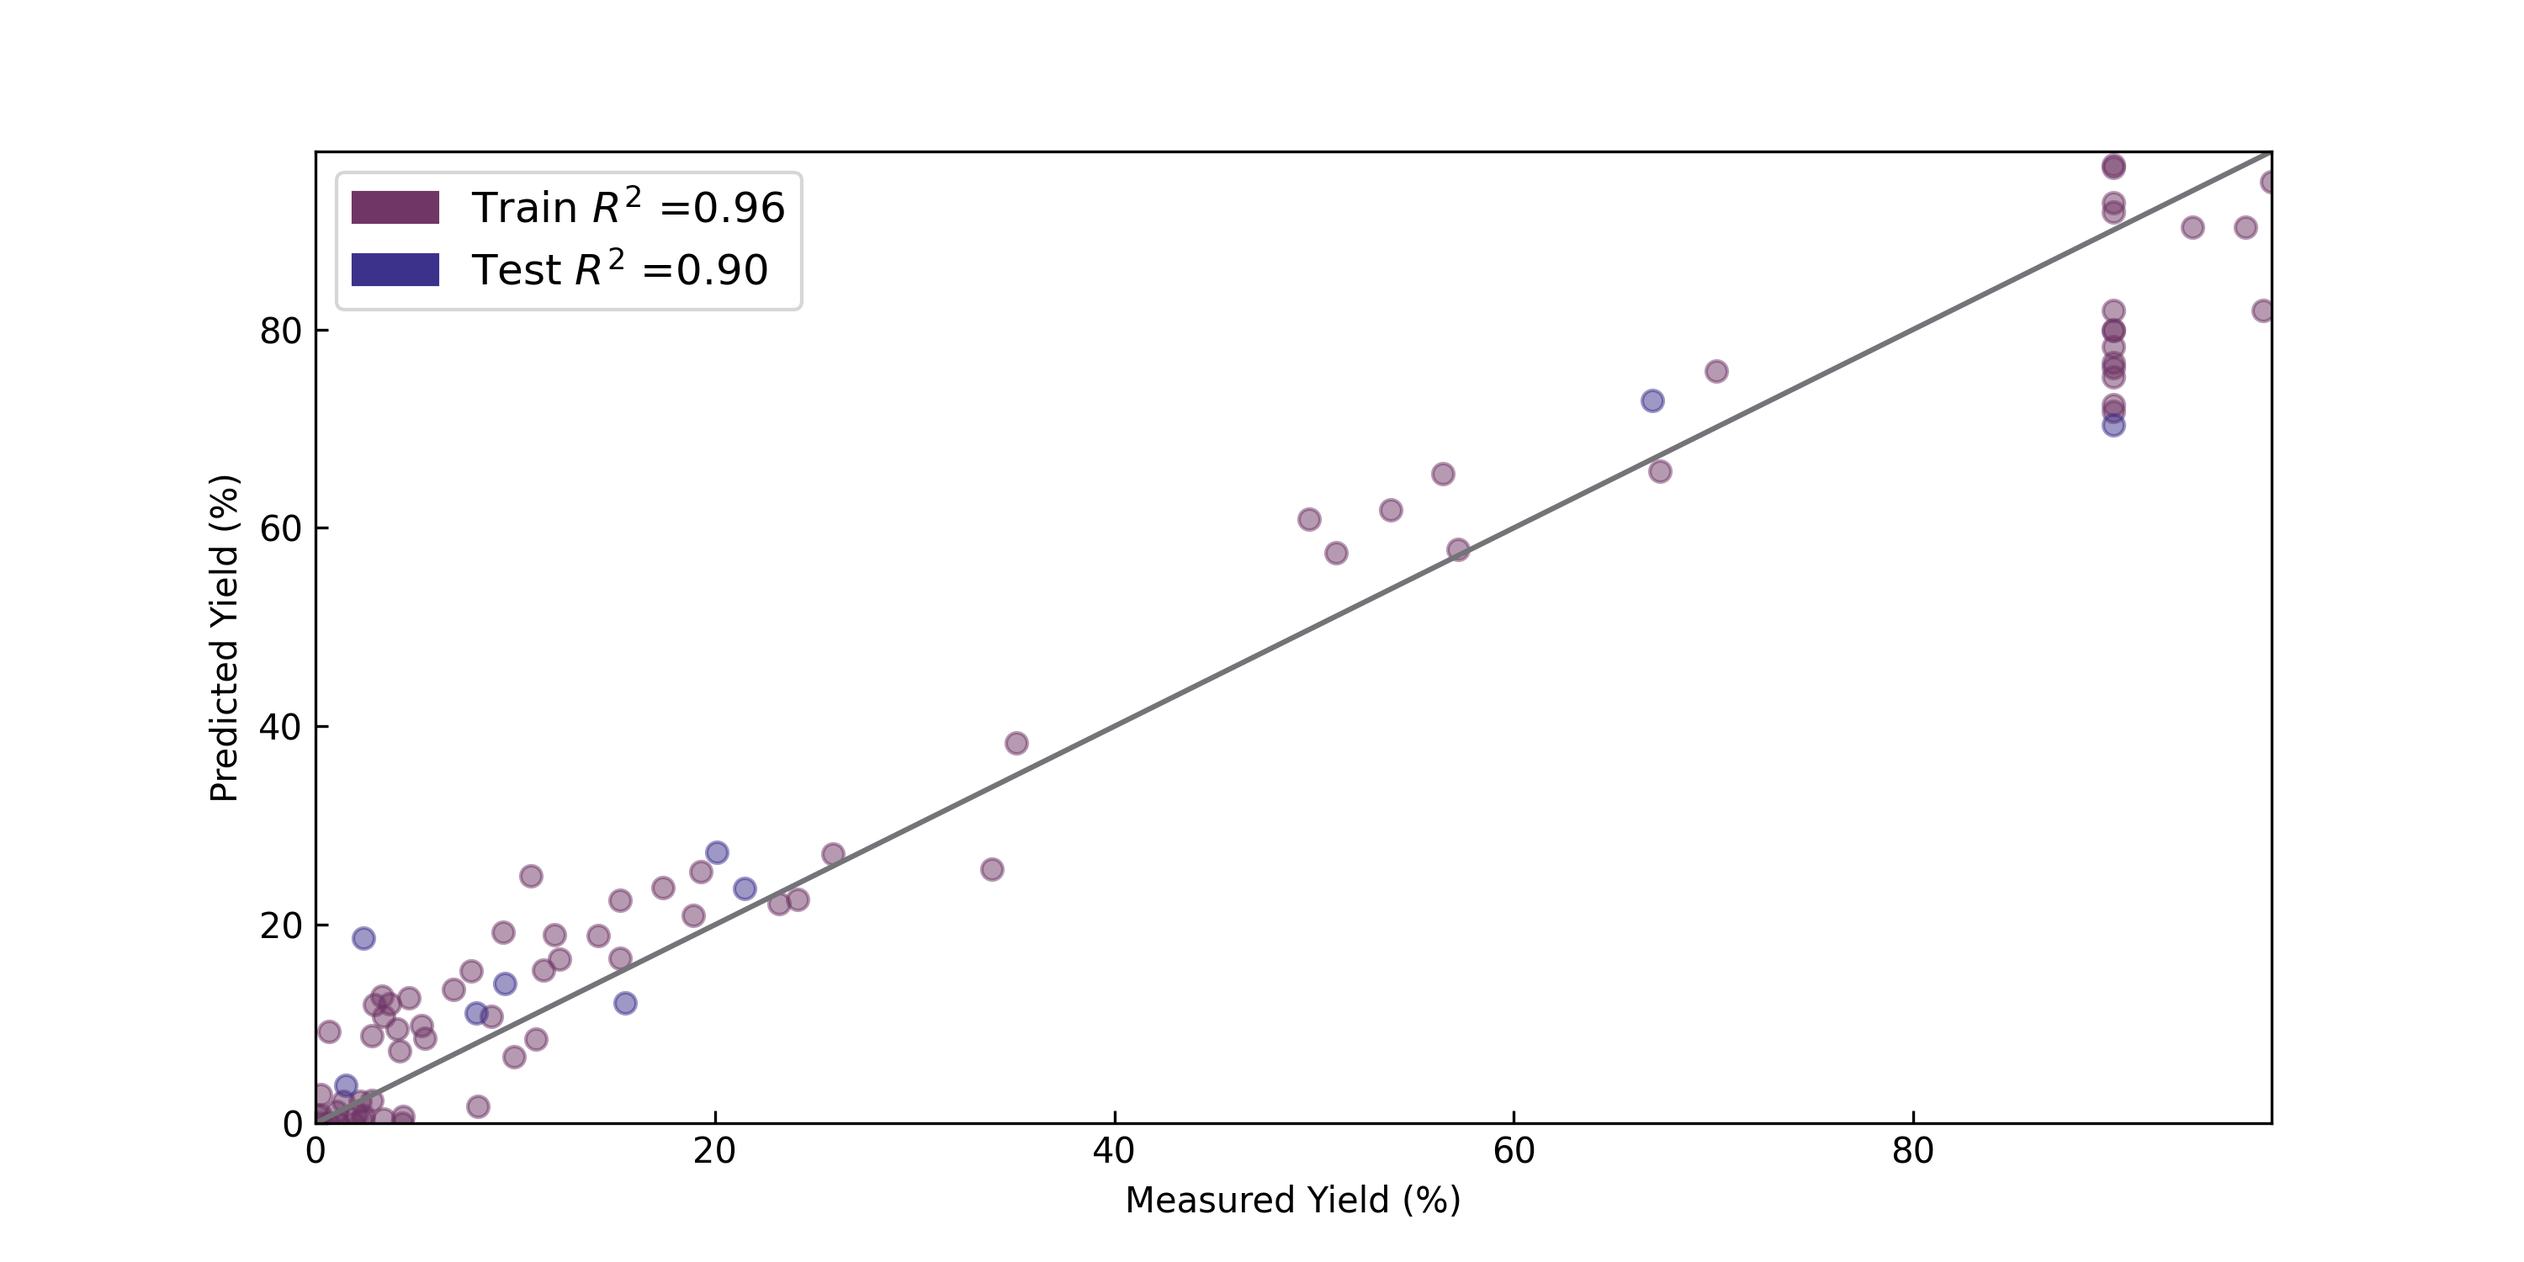
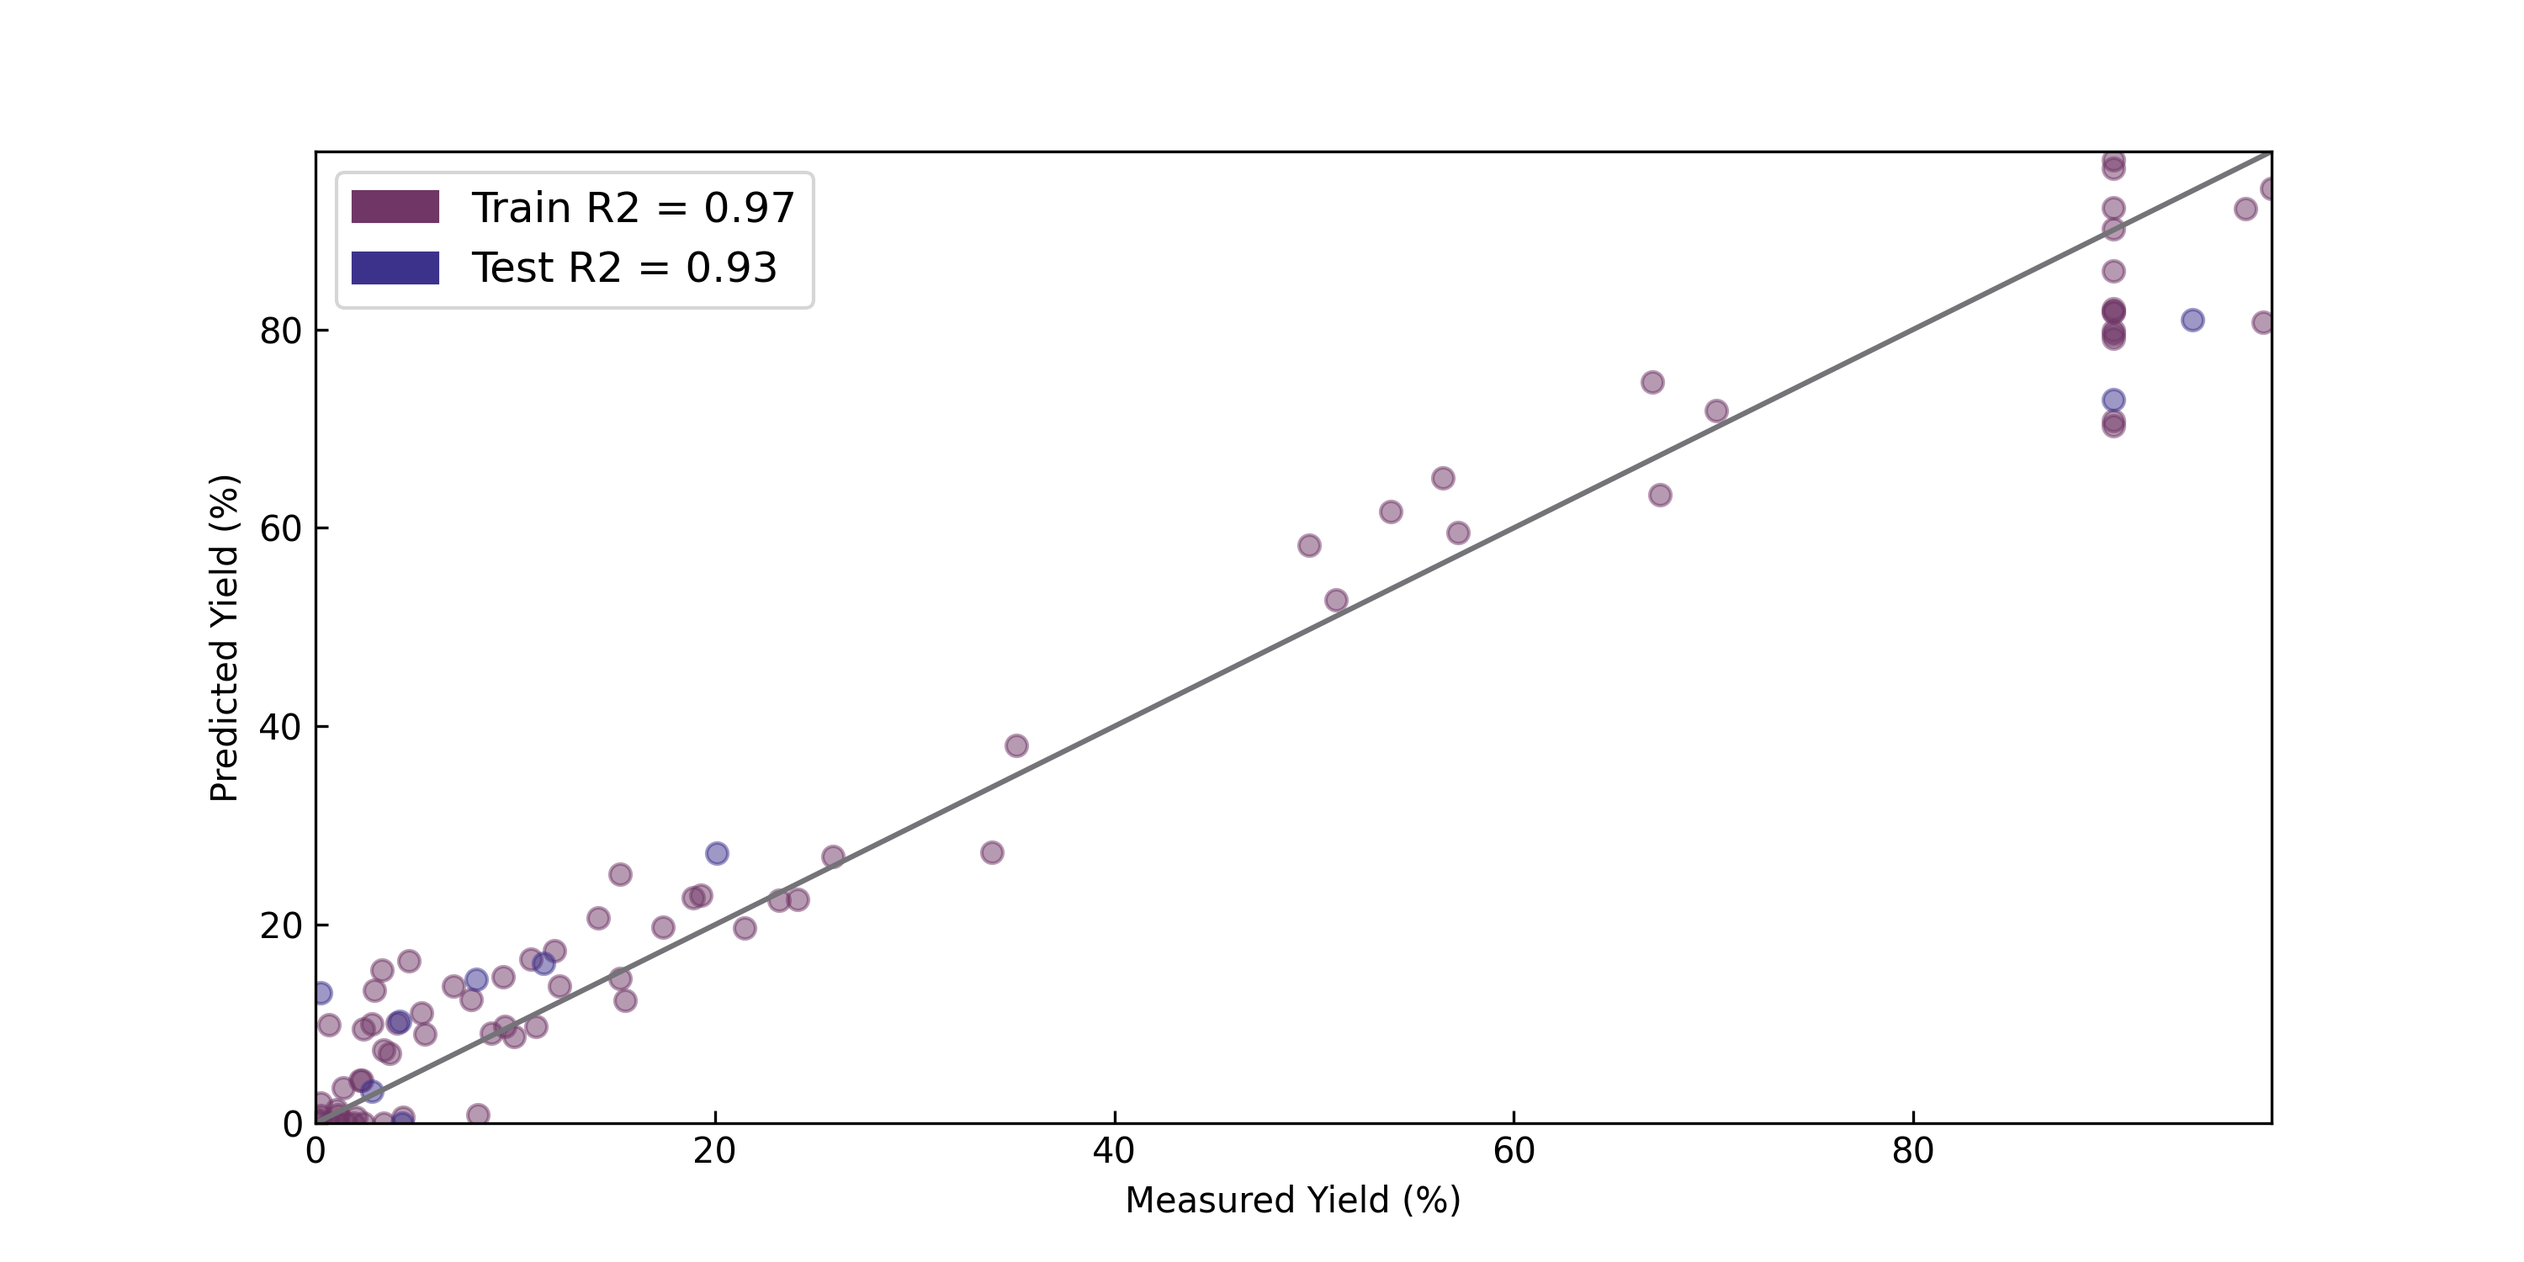
Remove task covar prior

diff --git a/lightning_study.py b/lightning_study.py
@@ -1,7 +1,5 @@
 import subprocess
-import time
 from typing import Dict, List, Optional
-import wandb
 from multitask.benchmarks.suzuki_benchmark_training import (
     train_benchmark as train_suzuki_benchmark,
 )
@@ -42,7 +40,7 @@ class BenchmarkWork(L.LightningWork):
         **kwargs,
     ):
         super().__init__(parallel=parallel, **kwargs)
-        self.benchmark_type = benchmark_type
+        self.benchmark_type = benchmark_type.value
         self.wandb_dataset_artifact_name = wandb_dataset_artifact_name
         self.dataset_name = dataset_name
         self.save_path = save_path
@@ -55,10 +53,16 @@ class BenchmarkWork(L.LightningWork):
         self.finished = False
 
     def run(self, **kwargs):
+        if self.benchmark_type == BenchmarkType.cn.value:
+            subcmd = "train-cn"
+        elif self.benchmark_type == BenchmarkType.suzuki.value:
+            subcmd = "train-suzuki"
+        else:
+            raise ValueError(f"Invalid benchmark type: {self.benchmark_type}")
         cmd = [
             "multitask",
             "benchmarks",
-            "train-cn" if self.benchmark_type == BenchmarkType.cn else "train-suzuki",
+            subcmd,
             self.dataset_name,
             self.save_path,
             self.figure_path,
@@ -177,6 +181,8 @@ class MultitaskBenchmarkStudy(L.LightningFlow):
         run_benchmark_training: bool,
         run_single_task: bool,
         run_multi_task: bool,
+        run_suzuki: bool = True,
+        run_cn: bool = True,
         compute_type: str = "cpu-medium",
         parallel: bool = True,
         max_workers: int = 10,
@@ -191,6 +197,8 @@ class MultitaskBenchmarkStudy(L.LightningFlow):
         self.run_benchmark_training = run_benchmark_training
         self.run_single_task = run_single_task
         self.run_multi_task = run_multi_task
+        self.run_suzuki = run_suzuki
+        self.run_cn = run_cn
         self.compute_type = compute_type
         self.parallel = parallel
         self.wandb_entity = wandb_entity
@@ -206,83 +214,87 @@ class MultitaskBenchmarkStudy(L.LightningFlow):
 
     def run(self):
         # Benchmark training
-        if self.run_benchmark_training and self.all_initialized:
+        if self.run_benchmark_training and not self.all_initialized:
             # Train Baumgartner CN benchmark
-            baumgartner_cn_runs = [
-                BenchmarkWork(
-                    benchmark_type="cn",
-                    dataset_name=f"baumgartner_cn_case_{case}",
-                    wandb_dataset_artifact_name="baumgartner_cn:latest",
-                    save_path=f"data/baumgartner_cn/emulator_case_{case}/",
-                    figure_path="figures/",
-                    parallel=self.parallel,
-                    cloud_compute=L.CloudCompute(name=self.compute_type),
-                    wandb_entity=self.wandb_entity,
-                    wandb_project=self.wandb_project,
-                )
-                for case in range(1, 5)
-            ]
-            for r in baumgartner_cn_runs:
-                r.run(
-                    max_epochs=1000,
-                    cv_folds=5,
-                    verbose=1,
-                )
+            if self.run_cn:
+                baumgartner_cn_runs = [
+                    BenchmarkWork(
+                        benchmark_type=BenchmarkType.cn,
+                        dataset_name=f"baumgartner_cn_case_{case}",
+                        wandb_dataset_artifact_name="baumgartner_cn:latest",
+                        save_path=f"data/baumgartner_cn/emulator_case_{case}/",
+                        figure_path="figures/",
+                        parallel=self.parallel,
+                        cloud_compute=L.CloudCompute(name=self.compute_type),
+                        wandb_entity=self.wandb_entity,
+                        wandb_project=self.wandb_project,
+                    )
+                    for case in range(1, 5)
+                ]
+                for r in baumgartner_cn_runs:
+                    r.run(
+                        max_epochs=1000,
+                        cv_folds=5,
+                        verbose=1,
+                    )
 
-            # Train Baumgartner Suzuki benchmark
-            baumgartner_suzuki_runs = [
-                BenchmarkWork(
-                    benchmark_type="suzuki",
-                    dataset_name=f"baumgartner_suzuki",
-                    wandb_dataset_artifact_name="baumgartner_suzuki:latest",
-                    save_path="data/baumgartner_suzuki/emulator",
-                    figure_path="figures/",
-                    parallel=self.parallel,
-                    cloud_compute=L.CloudCompute(self.compute_type),
-                    wandb_entity=self.wandb_entity,
-                    wandb_project=self.wandb_project,
-                )
-            ]
+            if self.run_suzuki:
+                # Train Baumgartner Suzuki benchmark
+                baumgartner_suzuki_runs = [
+                    BenchmarkWork(
+                        benchmark_type=BenchmarkType.suzuki,
+                        dataset_name=f"baumgartner_suzuki",
+                        wandb_dataset_artifact_name="baumgartner_suzuki:latest",
+                        save_path="data/baumgartner_suzuki/emulator",
+                        figure_path="figures/",
+                        parallel=self.parallel,
+                        cloud_compute=L.CloudCompute(self.compute_type),
+                        wandb_entity=self.wandb_entity,
+                        wandb_project=self.wandb_project,
+                    )
+                ]
 
-            # Train Reizman Suzuki benchmarks
-            reizman_suzuki_runs = [
-                BenchmarkWork(
-                    benchmark_type="suzuki",
-                    dataset_name=f"reizman_suzuki_case_{case}",
-                    wandb_dataset_artifact_name="reizman_suzuki:latest",
-                    save_path=f"data/reizman_suzuki/emulator_case_{case}/",
-                    figure_path="figures/",
-                    parallel=self.parallel,
-                    cloud_compute=L.CloudCompute(name=self.compute_type),
-                    wandb_entity=self.wandb_entity,
-                    wandb_project=self.wandb_project,
-                )
-                for case in range(1, 5)
-            ]
-            for r in reizman_suzuki_runs + baumgartner_suzuki_runs:
-                r.run(
-                    split_catalyst=False,
-                    max_epochs=1000,
-                    cv_folds=5,
-                    verbose=1,
-                    print_warnings=False,
-                )
+                # Train Reizman Suzuki benchmarks
+                reizman_suzuki_runs = [
+                    BenchmarkWork(
+                        benchmark_type=BenchmarkType.suzuki,
+                        dataset_name=f"reizman_suzuki_case_{case}",
+                        wandb_dataset_artifact_name="reizman_suzuki:latest",
+                        save_path=f"data/reizman_suzuki/emulator_case_{case}/",
+                        figure_path="figures/",
+                        parallel=self.parallel,
+                        cloud_compute=L.CloudCompute(name=self.compute_type),
+                        wandb_entity=self.wandb_entity,
+                        wandb_project=self.wandb_project,
+                    )
+                    for case in range(1, 5)
+                ]
+                for r in reizman_suzuki_runs + baumgartner_suzuki_runs:
+                    r.run(
+                        split_catalyst=False,
+                        max_epochs=1000,
+                        cv_folds=5,
+                        verbose=1,
+                        print_warnings=False,
+                    )
 
         # Multi task benchmarking
         if self.run_multi_task and not self.all_initialized:
             configs = []
-            # configs += self.generate_suzuki_configs_multitask(
-            #     max_experiments=self.max_experiments,
-            #     batch_size=self.batch_size,
-            #     repeats=self.repeats,
-            #     parallel=self.parallel,
-            # )
-            configs += self.generate_cn_configs_multitask(
-                max_experiments=self.max_experiments,
-                batch_size=self.batch_size,
-                repeats=self.repeats,
-                parallel=self.parallel,
-            )
+            if self.run_suzuki:
+                configs += self.generate_suzuki_configs_multitask(
+                    max_experiments=self.max_experiments,
+                    batch_size=self.batch_size,
+                    repeats=self.repeats,
+                    parallel=self.parallel,
+                )
+            if self.run_cn:
+                configs += self.generate_cn_configs_multitask(
+                    max_experiments=self.max_experiments,
+                    batch_size=self.batch_size,
+                    repeats=self.repeats,
+                    parallel=self.parallel,
+                )
             for i, config in enumerate(configs):
                 self.workers[str(self.total_jobs + i)] = OptimizationWork(
                     **config,
@@ -295,18 +307,20 @@ class MultitaskBenchmarkStudy(L.LightningFlow):
         # Single task benchmarking
         if self.run_single_task and not self.all_initialized:
             configs = []
-            # configs += self.generate_suzuki_configs_single_task(
-            #     max_experiments=self.max_experiments,
-            #     batch_size=self.batch_size,
-            #     repeats=self.repeats,
-            #     parallel=self.parallel,
-            # )
-            configs += self.generate_cn_configs_single_task(
-                max_experiments=self.max_experiments,
-                batch_size=self.batch_size,
-                repeats=self.repeats,
-                parallel=self.parallel,
-            )
+            if self.run_suzuki:
+                configs += self.generate_suzuki_configs_single_task(
+                    max_experiments=self.max_experiments,
+                    batch_size=self.batch_size,
+                    repeats=self.repeats,
+                    parallel=self.parallel,
+                )
+            if self.run_cn:
+                configs += self.generate_cn_configs_single_task(
+                    max_experiments=self.max_experiments,
+                    batch_size=self.batch_size,
+                    repeats=self.repeats,
+                    parallel=self.parallel,
+                )
             for i, config in enumerate(configs):
                 self.workers[str(self.total_jobs + i)] = OptimizationWork(
                     **config,
@@ -500,12 +514,14 @@ class MultitaskBenchmarkStudy(L.LightningFlow):
 if __name__ == "__main__":
     app = L.LightningApp(
         MultitaskBenchmarkStudy(
-            run_benchmark_training=False,
-            run_single_task=True,
+            run_benchmark_training=True,
+            run_single_task=False,
             run_multi_task=False,
+            run_suzuki=False,
+            run_cn=True,
             compute_type="cpu-medium",
             parallel=True,
-            max_workers=20,
+            max_workers=1,
             wandb_entity="ceb-sre",
         )
     )

diff --git a/multitask/benchmarks/cn_benchmark_training.py b/multitask/benchmarks/cn_benchmark_training.py
@@ -2,7 +2,7 @@ from multitask.utils import *
 from multitask.etl.cn_data_utils import get_cn_dataset
 from summit import *
 from pathlib import Path
-from typing import Tuple, Optional
+from typing import List, Tuple, Optional
 import logging
 import wandb
 from skorch.callbacks import WandbLogger
@@ -53,6 +53,7 @@ def train_benchmark(
     logger.info(f"Dataset size: {ds.shape[0]}")
     if use_wandb:
         wandb.config.update({"dataset_size": ds.shape[0]})
+        wandb.config.update({"domain": domain.to_dict()})
 
     # Create emulator benchmark
     emulator = ExperimentalEmulator(dataset_name, domain, dataset=ds)
@@ -89,7 +90,7 @@ def train_benchmark(
     return emulator
 
 
-def create_cn_domain() -> Domain:
+def create_cn_domain(base_equiv_bounds: List[float]) -> Domain:
     """Create the domain for the optimization"""
     domain = Domain()
 
@@ -126,7 +127,7 @@ def create_cn_domain() -> Domain:
     domain += ContinuousVariable(
         name="base_equiv",
         description=des_3,
-        bounds=[1.0, 2.8],
+        bounds=base_equiv_bounds,
     )
 
     des_4 = "Residence time in seconds (s)"
@@ -160,5 +161,6 @@ def prepare_domain_data(
     ds = get_cn_dataset(data_file)
 
     # Create domain
-    domain = create_cn_domain()
+    bounds = round(ds["base_equiv"].min(), 1), round(ds["base_equiv"].max(), 1)
+    domain = create_cn_domain(base_equiv_bounds=bounds)
     return ds, domain

diff --git a/multitask/strategies/mt.py b/multitask/strategies/mt.py
@@ -213,12 +213,12 @@ class NewMTBO(Strategy):
         output_tasks = [
             self.task
         ]  # if self.acquistion_function != "WeightedEI" else list(range(n_tasks))
-        sd_prior = GammaPrior(1.0, 0.15)
-        sd_prior._event_shape = torch.Size([n_tasks])
-        eta = 1.5
-        if not isinstance(eta, float) and not isinstance(eta, int):
-            raise ValueError(f"eta must be a real number, your eta was {eta}.")
-        prior = LKJCovariancePrior(n_tasks, eta, sd_prior)
+        # sd_prior = GammaPrior(1.0, 0.15)
+        # sd_prior._event_shape = torch.Size([n_tasks])
+        # eta = 1.5
+        # if not isinstance(eta, float) and not isinstance(eta, int):
+        #     raise ValueError(f"eta must be a real number, your eta was {eta}.")
+        # prior = LKJCovariancePrior(n_tasks, eta, sd_prior)
 
         if self.brute_force_categorical and self.categorical_method is None:
             raise NotImplementedError("LCM model not implemented yet.")
@@ -246,7 +246,7 @@ class NewMTBO(Strategy):
                 torch.tensor(output.data_to_numpy().astype(float)).double(),
                 task_feature=-1,
                 output_tasks=output_tasks,
-                task_covar_prior=prior,
+                # task_covar_prior=prior,
             )
         else:
             raise ValueError(f"{self.model_type} not available")

diff --git a/multitask/cli.py b/multitask/cli.py
@@ -3,6 +3,7 @@ from multitask.etl import app as etl_cli
 from multitask.benchmarks import app as benchmarks_cli
 from multitask.optimization import app as optimization_cli
 from multitask.visualization import app as visualization_cli
+import logging
 
 app = typer.Typer()
 app.add_typer(
@@ -21,4 +22,21 @@ app.add_typer(
 )
 
 if __name__ == "__main__":
+    logger = logging.getLogger(__name__)
+    logger.setLevel(logging.INFO)
+
+    # create a file handler
+    handler = logging.FileHandler("multitask.log")
+    handler.setLevel(logging.INFO)
+
+    # create a logging format
+    formatter = logging.Formatter(
+        "%(asctime)s - %(name)s - %(levelname)s - %(message)s"
+    )
+    handler.setFormatter(formatter)
+
+    # add the file handler to the logger
+    logger.addHandler(handler)
+
+    # Typer apps
     app()
